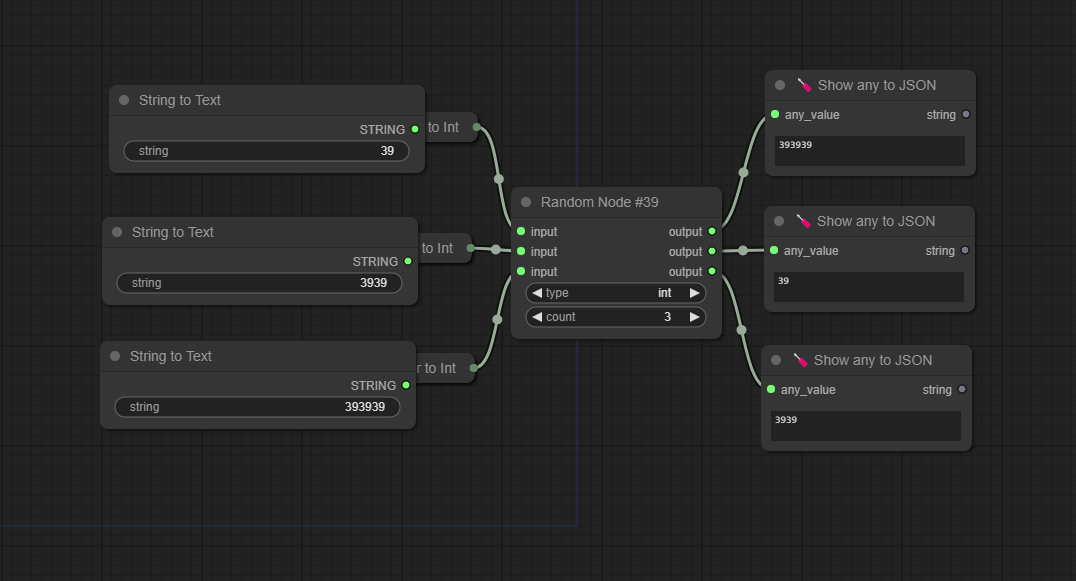
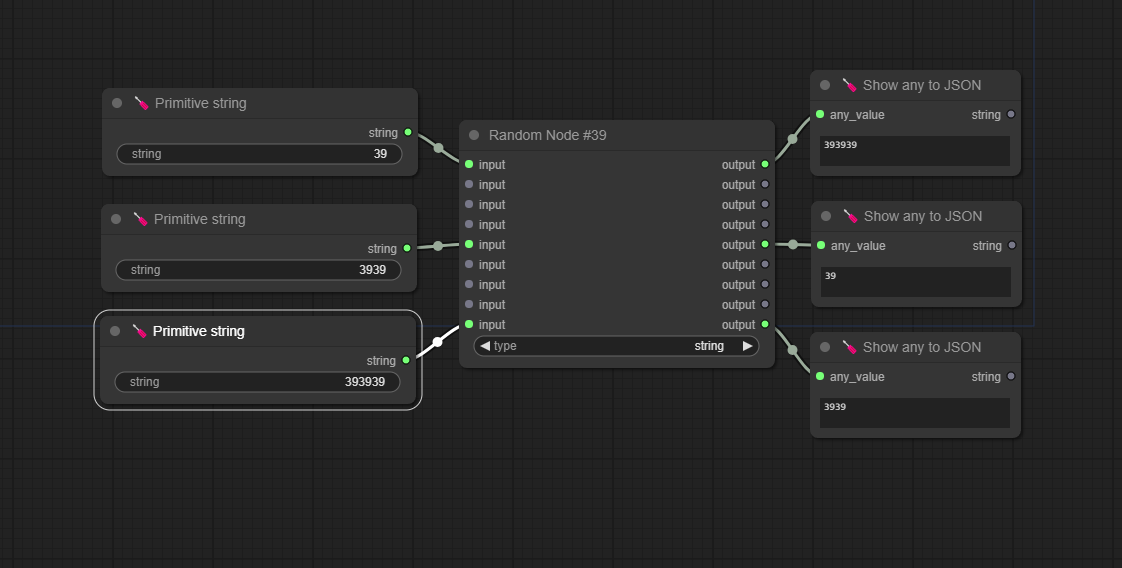
v1.0.1

diff --git a/js/index.js b/js/index.js
@@ -2,11 +2,11 @@ import { app } from "../../scripts/app.js";
 
 const DEBUG = false;
 const NODE_TYPE = "Random Node #39";
-const INTPUT_NAME = "input";
+const INPUT_NAME = "input";
 const OUTPUT_NAME = "output";
 
 if (DEBUG) {
-  console.log("#39 js loaded");
+  console.log("#39 loaded");
 }
 
 function chkLink(linkId, type) {
@@ -14,10 +14,11 @@ function chkLink(linkId, type) {
     return;
   }
 
-  const link = app.graph.links[parseInt(linkId)];
+  const link = app.graph.links[linkId];
   if (!link) {
     return;
   }
+
   if (link.type.toLowerCase() !== type.toLowerCase() && link.type !== "*" && type.toLowerCase() !== "*") {
     app.graph.removeLink(link.id);
   }
@@ -25,7 +26,7 @@ function chkLink(linkId, type) {
 
 function getInputs(node) {
   return node.inputs.filter(function(input) {
-    return input.name.indexOf(INTPUT_NAME) > -1;
+    return input.name.indexOf(INPUT_NAME) > -1;
   });
 }
 
@@ -35,78 +36,25 @@ function getOutputs(node) {
   });
 }
 
-function getLastInputIndex(node) {
-  let i = node.inputs.length - 1;
-  for (i; i >= 0; i--) {
-    if (node.inputs[i].name.indexOf(INTPUT_NAME) > -1) {
-      break;
-    }
-  }
-  return i;
-}
-
-function getLastOutputIndex(node) {
-  let i = node.outputs.length - 1;
-  for (i; i >= 0; i--) {
-    if (node.outputs[i].name.indexOf(OUTPUT_NAME) > -1) {
-      break;
-    }
-  }
-  return i;
-}
-
-function setInputs(node, count, type) {
-  while(getInputs(node).length !== count) {
-    if (getInputs(node).length > count) {
-      node.removeInput(getLastInputIndex(node));
-    } else {
-      node.addInput(INTPUT_NAME, type);
-    }
-  }
-
-  // set type
+function setTypes(node, type) {
   const inputs = getInputs(node);
-  let idx = 0;
   for (let i = 0; i < inputs.length; i++) {
     const input = inputs[i];
-    input.name = INTPUT_NAME + idx;
     input.type = type;
-    input.label = INTPUT_NAME;
-    input.required = true;
+    input.label = INPUT_NAME;
 
     // unlink
     chkLink(input.link, type);
-
-    idx++;
-  }
-}
-
-function setOutputs(node, count, type) {
-  while(getOutputs(node).length !== count) {
-    if (getOutputs(node).length > count) {
-      node.removeOutput(getLastOutputIndex(node));
-    } else {
-      node.addOutput(OUTPUT_NAME, type);
-    }
   }
 
-  // set type
   const outputs = getOutputs(node);
-  let idx = 0;
   for (let i = 0; i < outputs.length; i++) {
     const output = outputs[i];
-    output.name = OUTPUT_NAME + idx;
     output.type = type;
     output.label = OUTPUT_NAME;
 
     // unlink
-    if (output.links) {
-      for (const linkId of output.links) {
-        chkLink(linkId, type);
-      }
-    }
-
-    idx++;
+    chkLink(output.links, type);
   }
 }
 
@@ -119,42 +67,23 @@ function setNode(node, app) {
     return item.name == "type";
   }) : null;
 
-  const countWidget = node.widgets ? node.widgets.find(function(item) {
-    return item.name == "count";
-  }) : null;
-
-  if (!typeWidget || !countWidget) {
+  if (!typeWidget) {
     return;
   }
 
-  node._count = countWidget.value;
   node._type = typeWidget.value;
 
   if (DEBUG) {
-    console.log("Random #39 node", node);
+    console.log("#39 node", node);
   }
 
-  setInputs(node, node._count, node._type);
-  setOutputs(node, node._count, node._type);
-
-  Object.defineProperty(countWidget, "value", {
-    set: async function(value) {
-      node._count = value;
-
-      setInputs(node, value, node._type);
-      setOutputs(node, value, node._type);
-    },
-    get: function() {
-      return node._count;
-    }
-  });
+  setTypes(node, node._type);
 
   Object.defineProperty(typeWidget, "value", {
     set: async function(value) {
       node._type = value;
 
-      setInputs(node, node._count, value);
-      setOutputs(node, node._count, value);
+      setTypes(node, node._type);
     },
     get: function() {
       return node._type;

diff --git a/__init__.py b/__init__.py
@@ -2,14 +2,14 @@
 @author: shinich39
 @title: Random Node #39
 @nickname: Random Node #39
-@version: 1.0.0
+@version: 1.0.1
 @description: Choose random node.
 """
 
 import random
 
 DEBUG = False
-VERSION = "1.0.0"
+VERSION = "1.0.1"
 WEB_DIRECTORY = "./js"
 NODE_CLASS_MAPPINGS = {}
 NODE_DISPLAY_NAME_MAPPINGS = {}
@@ -31,9 +31,18 @@ class RandomNode:
         return {
             "required": {
                 "type": (["boolean","number","int","float","string","text","image","mask","latent","conditioning","model","clip","vae",],),
-                "count": ("INT", {"default": 1, "min": 1, "max": 99, "step": 1}),
-                "input": (ANY_TYPE, )
+                "input1": (ANY_TYPE,),
             },
+            "optional": {
+                "input2": (ANY_TYPE,),
+                "input3": (ANY_TYPE,),
+                "input4": (ANY_TYPE,),
+                "input5": (ANY_TYPE,),
+                "input6": (ANY_TYPE,),
+                "input7": (ANY_TYPE,),
+                "input8": (ANY_TYPE,),
+                "input9": (ANY_TYPE,),
+            }
         }
     
     @classmethod
@@ -41,27 +50,31 @@ class RandomNode:
         return float("NaN")
     
     CATEGORY = "utils"
-    RETURN_TYPES = (ANY_TYPE,)
-    RETURN_NAMES = ("output",)
+    RETURN_TYPES = (ANY_TYPE,ANY_TYPE,ANY_TYPE,ANY_TYPE,ANY_TYPE,ANY_TYPE,ANY_TYPE,ANY_TYPE,ANY_TYPE,)
+    RETURN_NAMES = ("output1","output2","output3","output4","output5","output6","output7","output8","output9",)
     FUNCTION = "exec"
 
-    def exec(self, type, count, **inputs):
+    def exec(self, type, **inputs):
 
         if DEBUG:
             print(f"type: {type}")
-            print(f"count: {count}")
     
-        items = list(inputs.values())
-        values = [None for x in range(count)]
-        types = [type.upper() for x in range(count)]
-        for i in range(len(items)):
-            values[i] = items[i]
-        
-        random.shuffle(values)
+        values = list(inputs.values())
+        new_values = []
+        for i in range(9):
+            for v in values:
+                new_values.append(v)
 
-        self.RETURN_TYPES = tuple(types)
 
-        return tuple(values)
+        if DEBUG:
+            print(new_values)
+
+        random.shuffle(new_values)
+
+        if DEBUG:
+            print(new_values[0:9])
+
+        return tuple(new_values[0:9])
 
 NODE_CLASS_MAPPINGS["Random Node #39"] = RandomNode
 NODE_DISPLAY_NAME_MAPPINGS["Random Node #39"] = "Random Node #39"
